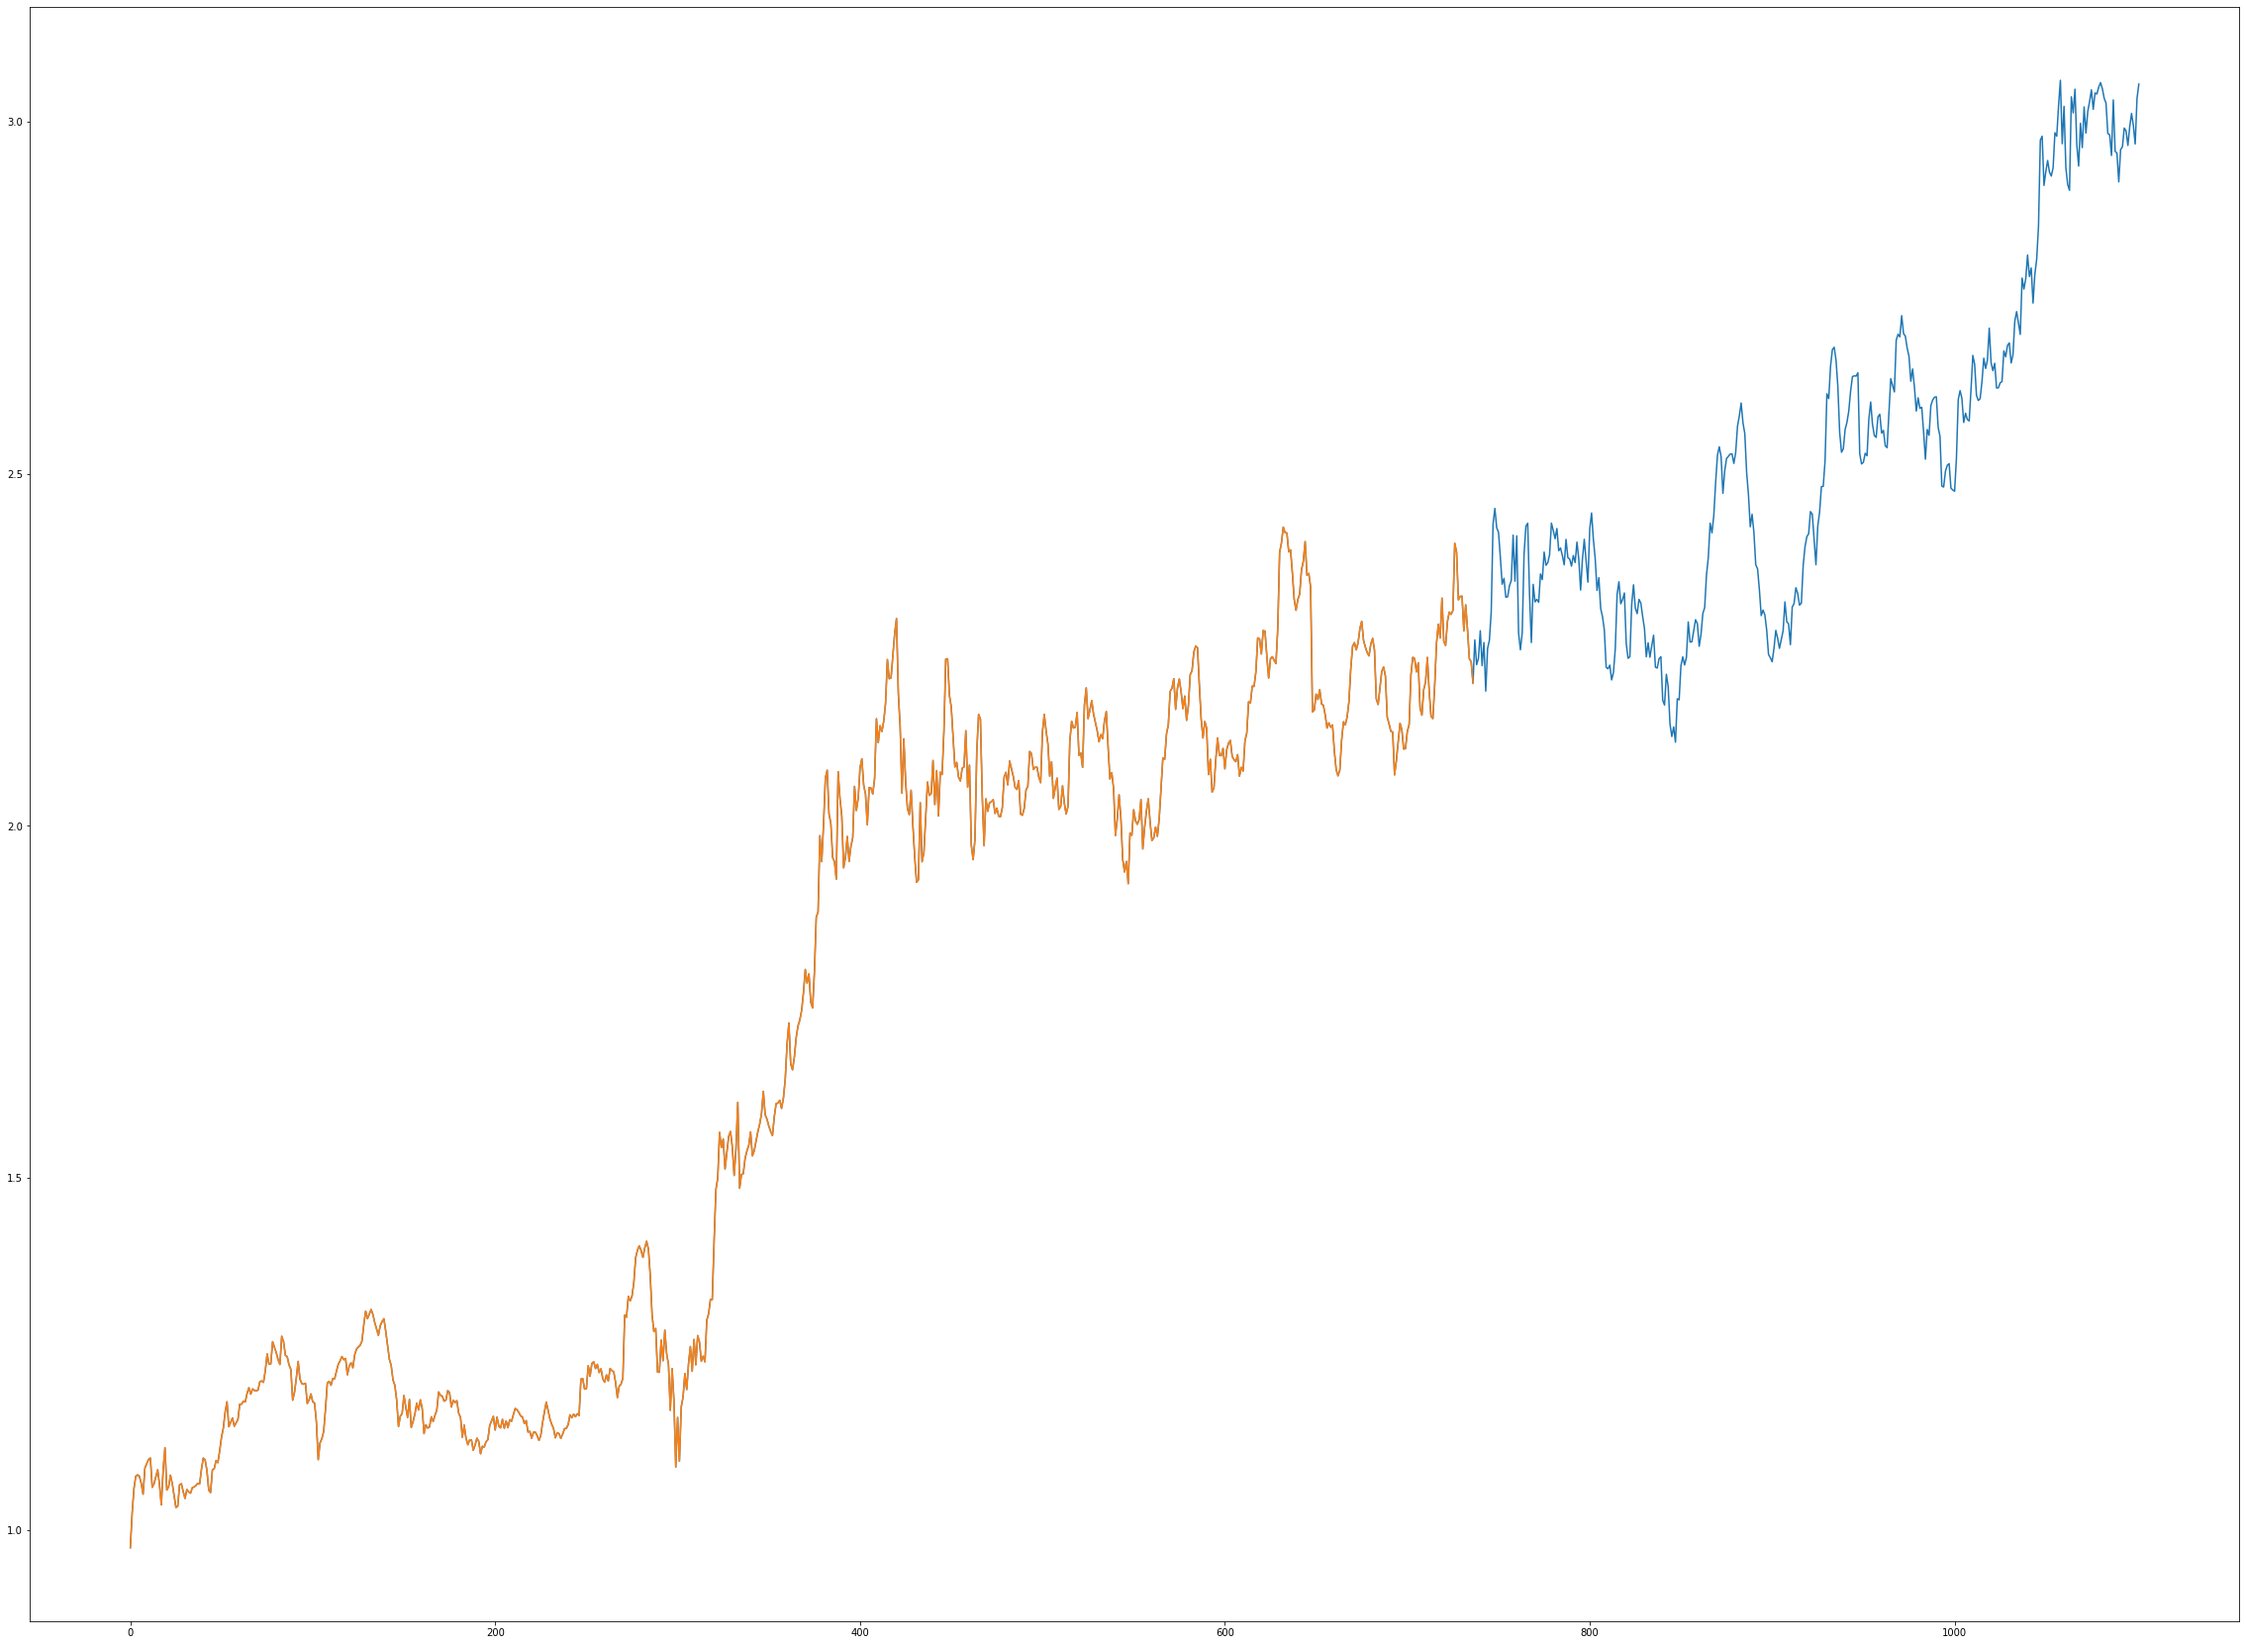
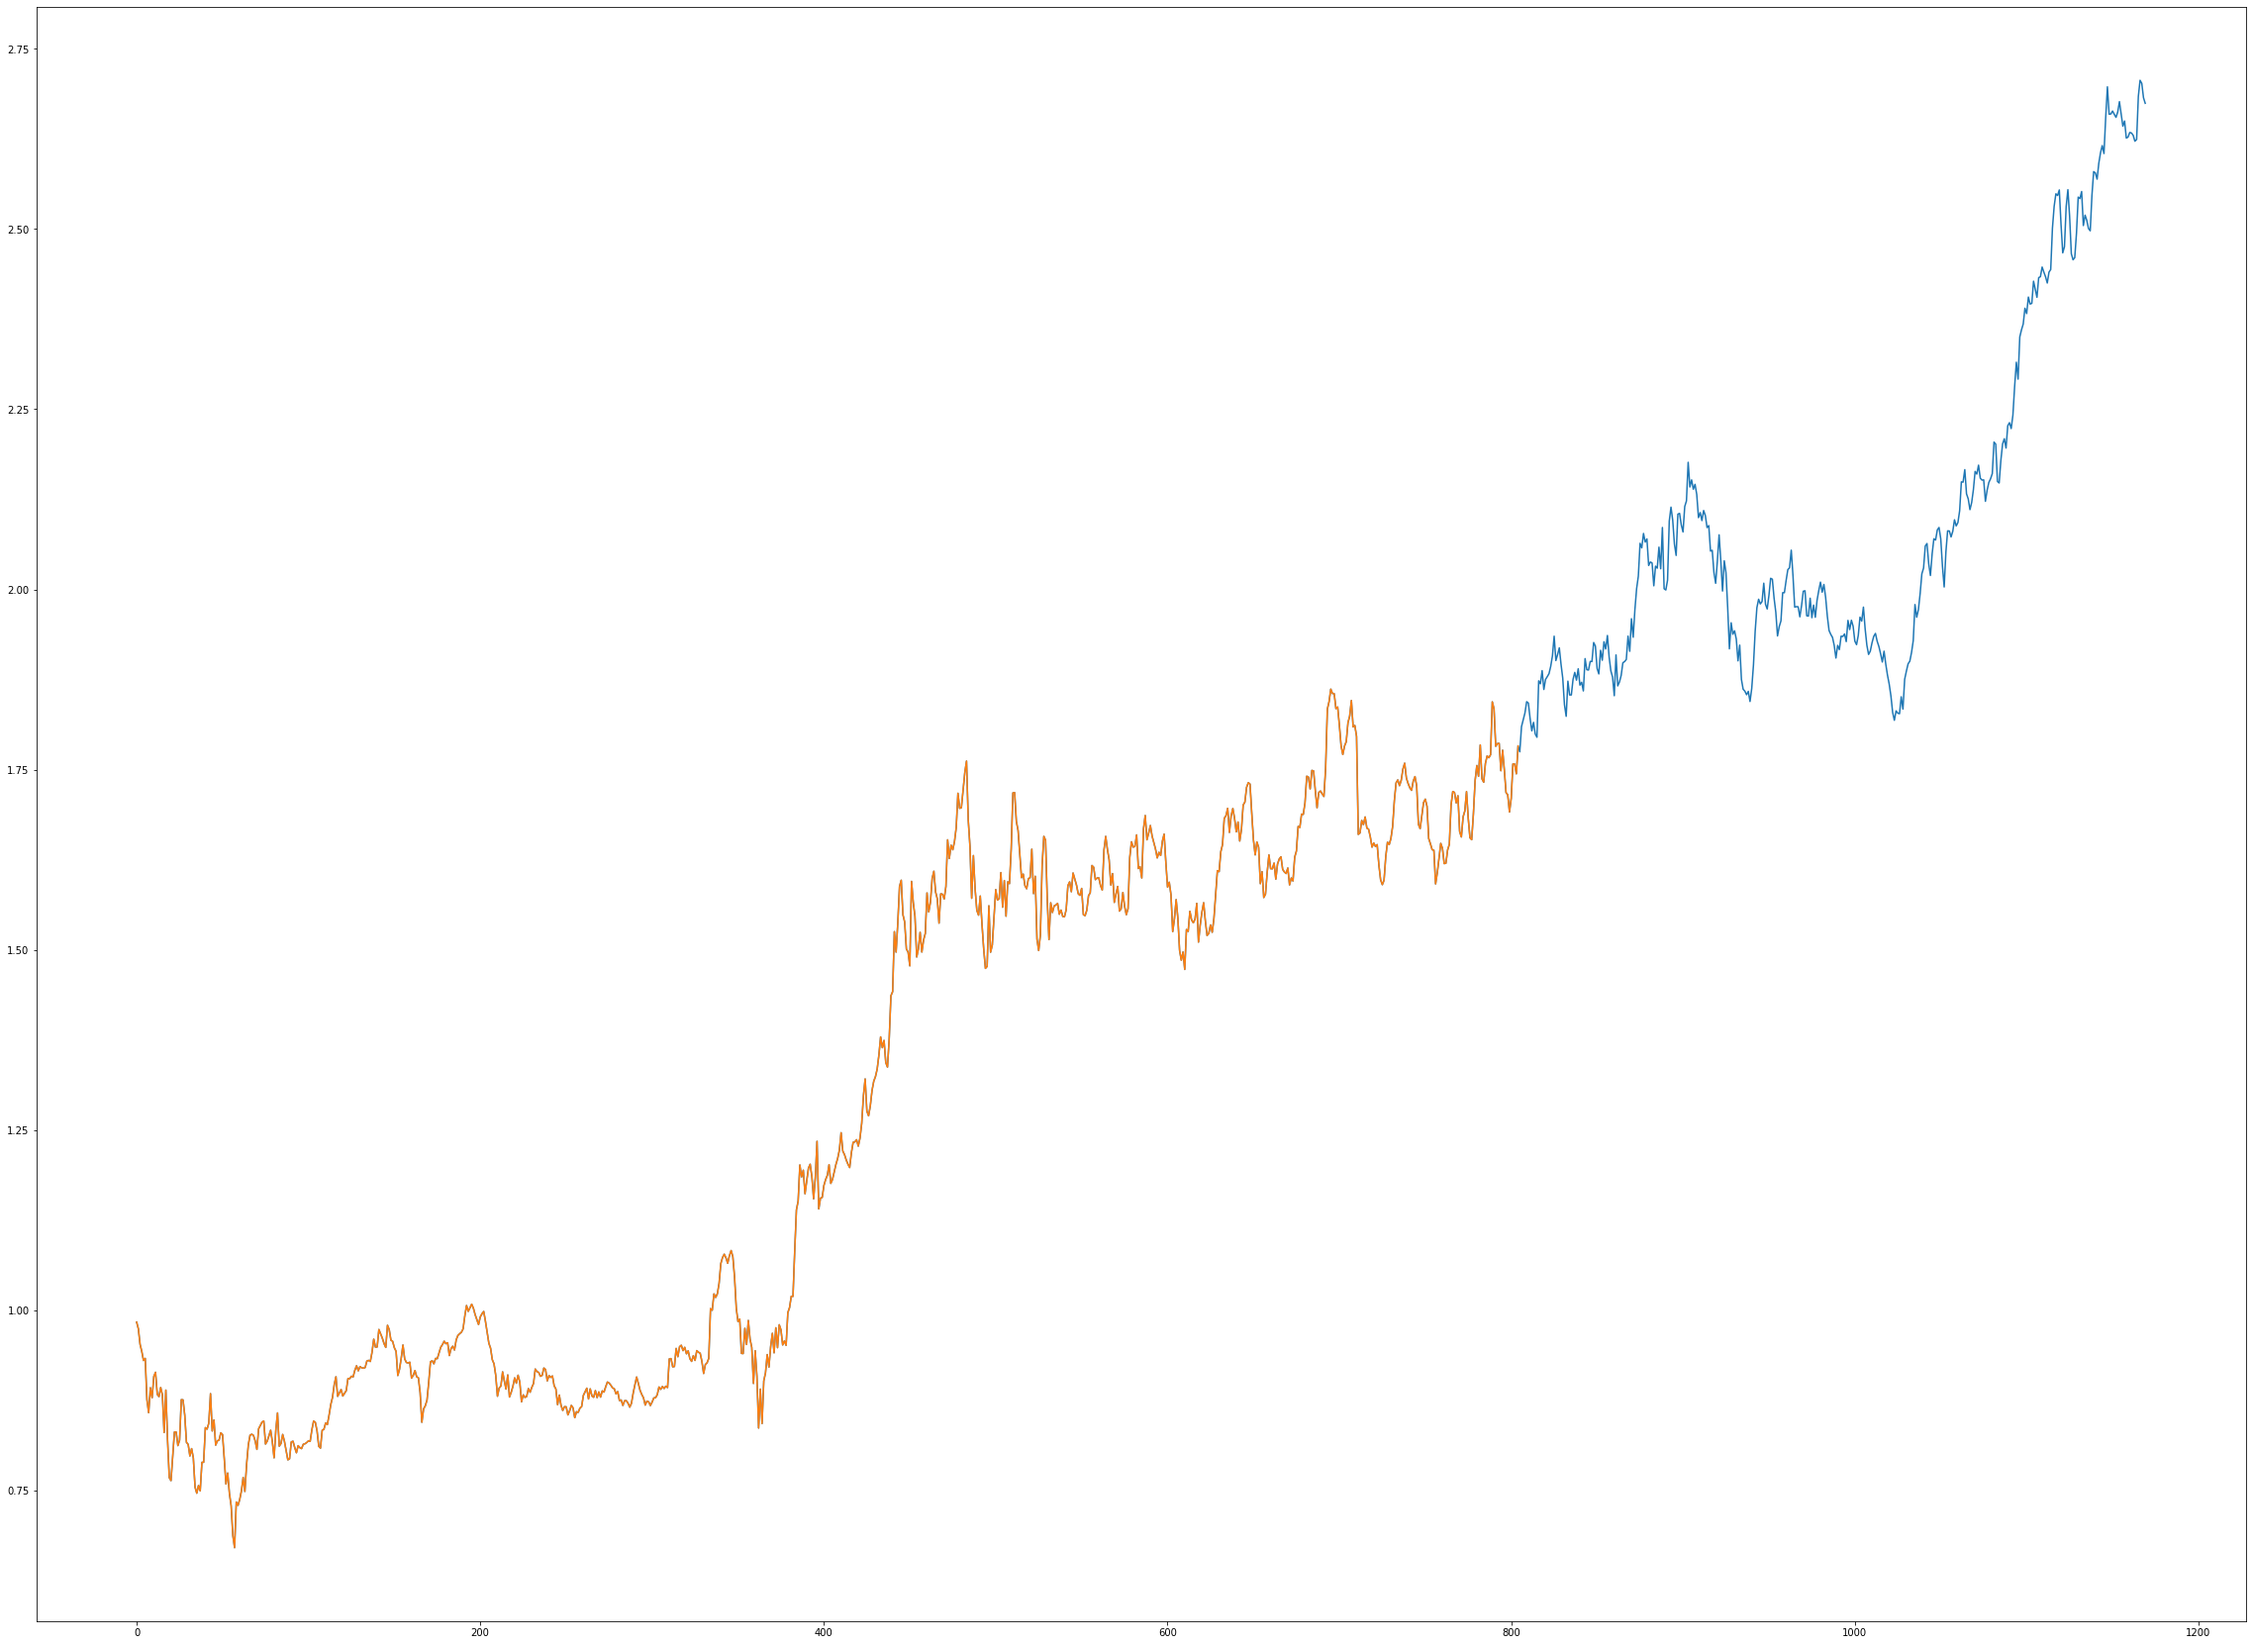
added standardized model for all but 3 stocks. Also updated model prediction examples

diff --git a/Send_Data.py b/Send_Data.py
@@ -8,6 +8,7 @@ import json
 from numpy import array
 import requests
 import dateutil.parser as dp
+import matplotlib.pyplot as plt
 
 
 
@@ -18,62 +19,69 @@ n_days = 365 - 1
 random.seed(10)
 
 # call data from Yahoo Finance
-# data=yf.download('QCOM', start='2000-1-2') 500lags
-# data=yf.download('NVDA', start='2000-1-2') 500lags
-# data=yf.download('INTC', start='2000-1-2') 500lags
-# data=yf.download('NYA', start='2000-1-2') 500lags
-# data=yf.download('^DJI', start='2000-1-2') 500lags
-# data=yf.download('JPM', start='2000-1-2') 500lags
-# data=yf.download('F',start='2000-1-2') 500 lags
-# data=yf.download('GOOGL',start='2000-1-2') 500 lags
-# data=yf.download('BA', start='2000-1-2') 500lags
-# data=yf.download('KHC') 500lags
-# data=yf.download('AAPL', start='2015-1-2') 550
-# data=yf.download('FB',start='2000-1-2') 550
-# data=yf.download('NFLX',start='2018-1-2') 380
-# data=yf.download('^IXIC', start='2018-1-2') 380
-# data=yf.download('COST',start='2015-1-2') 550
-# data=yf.download('UBER') 270
-# data=yf.download('ZM') 300
-# data=yf.download('MSFT', start='2000-1-2') 550
-# data=yf.download('AMZN', start='2015-10-1') 380
-# data=yf.download('TSLA') lags=580, len(array)-1500
-Zoom=yf.download('ZM')
+Qualcom=yf.download('QCOM', start='2000-1-2')
+Intel=yf.download('INTC', start='2000-1-2')
+NYSE=yf.download('NYA', start='2000-1-2')
+DowJones=yf.download('^DJI', start='2000-1-2')
+JPMorgan=yf.download('JPM', start='2015-1-2')
+Ford=yf.download('F',start='2018-1-2')
+Google=yf.download('GOOGL',start='2000-1-2')
+Boeing=yf.download('BA', start='2015-1-2')
 Heinz=yf.download('KHC')
 Apple=yf.download('AAPL', start='2015-1-2')
-Tesla=yf.download('TSLA')
-Nasdaq=yf.download('^IXIC', start='2018-1-2')
-Amazon=yf.download('AMZN', start='2015-10-1')
+Facebook=yf.download('FB',start='2000-1-2')
+Netflix=yf.download('NFLX',start='2018-1-2')
+Nasdaq=yf.download('^IXIC', start='2015-1-2')
+Costco=yf.download('COST',start='2018-1-2')
+Uber=yf.download('UBER')
+Microsoft=yf.download('MSFT', start='2015-1-2')
+Amazon=yf.download('AMZN', start='2018-10-1')
+
+# data=yf.download('ZM') lags=300
+# data=yf.download('TSLA') lags=580, len(array)-1500
+# data=yf.download('NVDA', start='2000-1-2')
 
 stocks = {}
 news = []
 
 def train_send(stock_name, data, n_lags, x):
+    
     data.reset_index(inplace=True,drop=False)
     data['Stock_return'] = data['Close'].pct_change()
     data = data.dropna()
     df = data[['Stock_return','Date']]
     df_train = df
+        
     array = df_train['Stock_return'].to_numpy()
-    model = AutoReg(array, lags=n_lags)
+    
+    if n_lags > -1:
+        lags = n_lags
+    else:
+        lags = int(len(array) * 0.3)
+    
+    model = AutoReg(array, lags=lags)
     model_fit = model.fit()
     raw_forecast = model_fit.predict(len(array)-n_days-x, len(array)-x)
     array = np.append(array,raw_forecast)
+    
     final = (array + 1).cumprod()
     final_preds = final[-365:]
     num_final = final[0]
     num_initial = data['Close'].iloc[0]
     constant = (num_initial/num_final)
+    
     preds = final_preds * constant
     preds = [round(num, 2) for num in preds]
     maximum = preds.index(np.max(preds))
     minimum = preds.index(np.min(preds))
+    
     today = date.today()
     current_date = today.strftime("%Y-%m-%d")
     current = yf.download('AAPL', start=current_date)
     current = current['Close'].values.tolist()
     current = current[0]
     current = math.ceil(current * 100) / 100
+    
     stock_dictionary = {
               "preds": preds,
               "max": maximum,
@@ -83,13 +91,14 @@ def train_send(stock_name, data, n_lags, x):
         }
     
     stocks[stock_name] = stock_dictionary
-     
+         
 train_send("zoom",Zoom, 300, 0)
-train_send("heinz",Heinz, 500, 0)
-train_send("apple",Apple, 500, 0)
+train_send("heinz",Heinz, -1, 0)
+train_send("apple",Apple, -1, 0)
 train_send("tesla",Tesla, 580, 1500)
-train_send("nasdaq",Nasdaq, 380, 0)
-train_send("amazon",Amazon, 380, 0)
+train_send("nasdaq",Nasdaq, -1, 0)
+train_send("amazon",Amazon, -1, 0)
+#will add more
 
 
 limit = '25'

diff --git a/Stockscast_Model.py b/Stockscast_Model.py
@@ -2,6 +2,7 @@ import yfinance as yf
 import matplotlib.pyplot as plt
 import numpy as np
 from statsmodels.tsa.ar_model import AutoReg
+from statsmodels.tsa.arima.model import ARIMA
 import random
 import math
 from datetime import date
@@ -12,26 +13,27 @@ n_days = 365
 random.seed(10)
 
 # call data from Yahoo Finance
-# data=yf.download('QCOM', start='2000-1-2') 500lags
-# data=yf.download('NVDA', start='2000-1-2') 500lags
-# data=yf.download('INTC', start='2000-1-2') 500lags
-# data=yf.download('NYA', start='2000-1-2') 500 lags
-# data=yf.download('^DJI', start='2000-1-2') 500lags
-# data=yf.download('JPM', start='2000-1-2') 500lags
-# data=yf.download('F',start='2000-1-2') 500 lags
-# data=yf.download('GOOGL',start='2000-1-2') 500 lags
-# data=yf.download('BA', start='2000-1-2') 500lags
-data=yf.download('KHC')
-# data=yf.download('AAPL', start='2015-1-2') 550
-# data=yf.download('FB',start='2000-1-2') 550
-# data=yf.download('NFLX',start='2018-1-2') 380
-# data=yf.download('^IXIC', start='2018-1-2') 380
-# data=yf.download('COST',start='2015-1-2') 550
-# data=yf.download('UBER') 270
-# data=yf.download('ZM')
-# data=yf.download('MSFT', start='2000-1-2') 550
-# data=yf.download('AMZN', start='2015-10-1') 380
+# data=yf.download('QCOM', start='2000-1-2')
+# data=yf.download('INTC', start='2000-1-2')
+# data=yf.download('NYA', start='2000-1-2')
+# data=yf.download('^DJI', start='2000-1-2')
+# data=yf.download('JPM', start='2015-1-2')
+# data=yf.download('F',start='2018-1-2')
+# data=yf.download('GOOGL',start='2000-1-2')
+# data=yf.download('BA', start='2015-1-2')
+# data=yf.download('KHC')
+# data=yf.download('AAPL', start='2015-1-2')
+# data=yf.download('FB',start='2000-1-2')
+# data=yf.download('NFLX',start='2018-1-2')
+# data=yf.download('^IXIC', start='2015-1-2')
+# data=yf.download('COST',start='2018-1-2')
+# data=yf.download('UBER')
+# data=yf.download('MSFT', start='2015-1-2')
+# data=yf.download('AMZN', start='2018-10-1')
+
+# data=yf.download('ZM') lags=300
 # data=yf.download('TSLA') lags=580, len(array)-1500
+# data=yf.download('NVDA', start='2000-1-2')
 
 #data restructure
 data.reset_index(inplace=True,drop=False)
@@ -43,29 +45,15 @@ df = data[['Stock_return','Date']]
 df_train = df
 array = df_train['Stock_return'].to_numpy()
 len(array)
+# print(array)
 # plt.plot(array)
 
 # model training
+lags = int(len(array) * 0.3)
 model = AutoReg(array, lags=500)
 model_fit = model.fit()
 yhat = model_fit.predict(len(array)-n_days, len(array))
 array = np.append(array,yhat)
-
-# x=0
-# y=0
-# while(x < n_days + 1):
-#     model = AutoReg(array, lags=300)
-#     model_fit = model.fit()
-#     yhat = model_fit.predict(len(array)-365, len(array)-365)
-#     print(yhat)
-#     array = np.append(array,yhat)
-#     print(x)
-#     array = array[~np.isnan(array)]
-#     x = x+1
-#     y = y+1
-
-
-
 
 #plotting results
 plt.plot(array)
